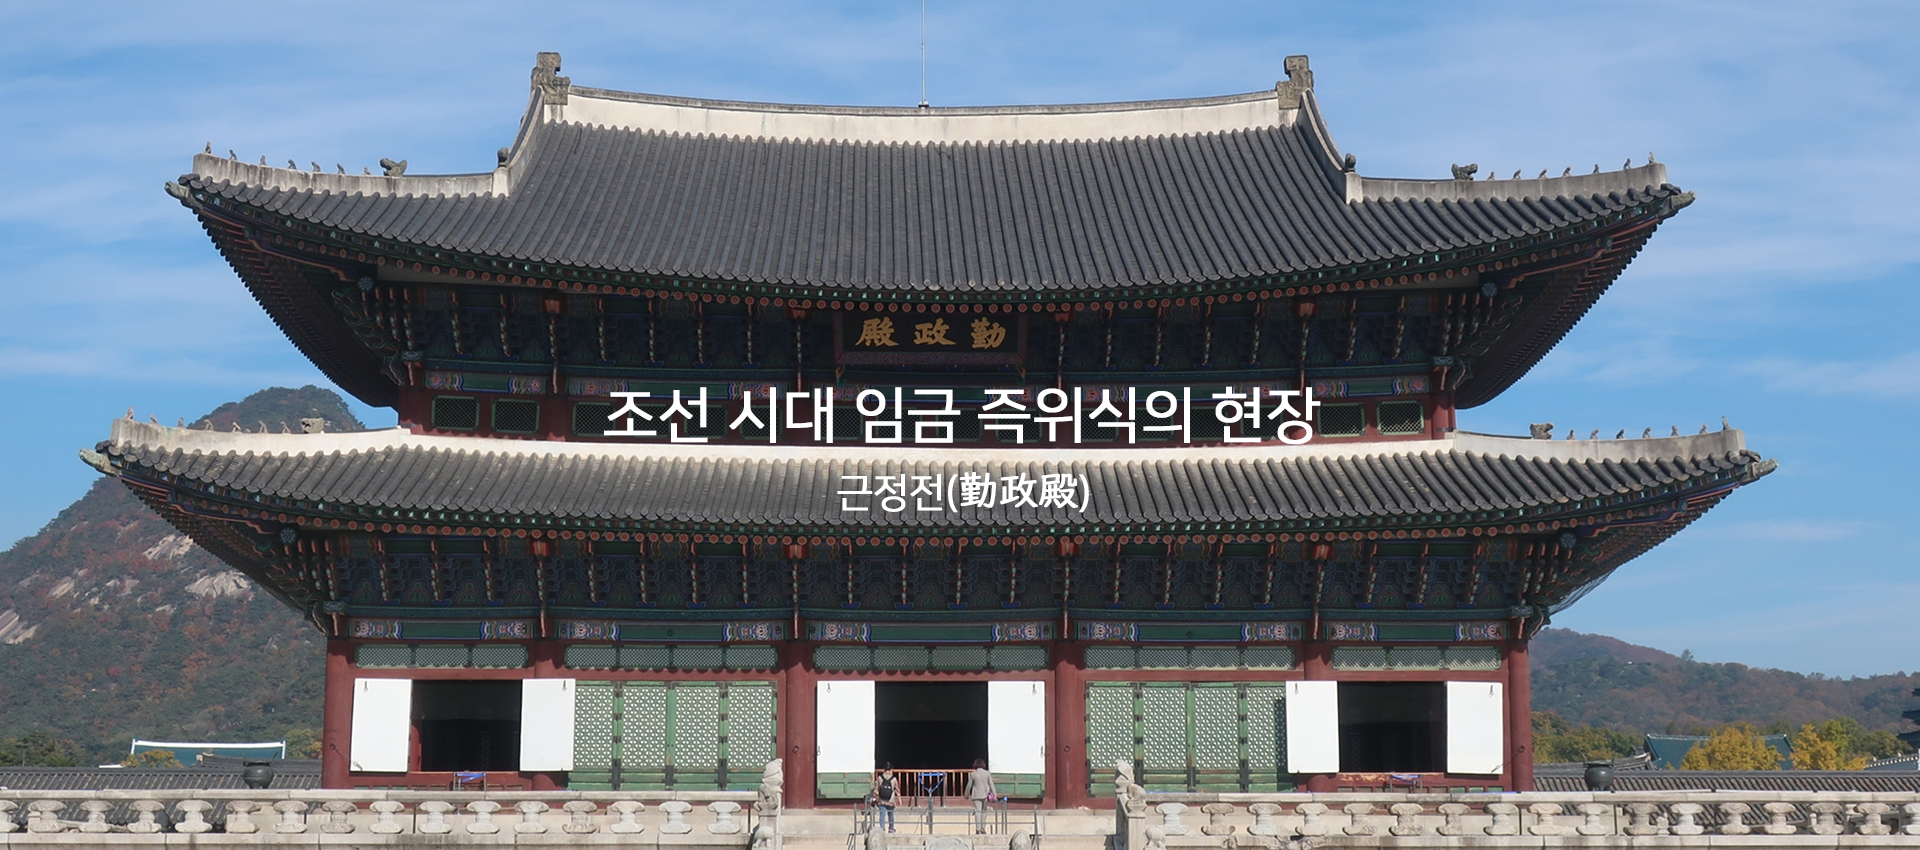
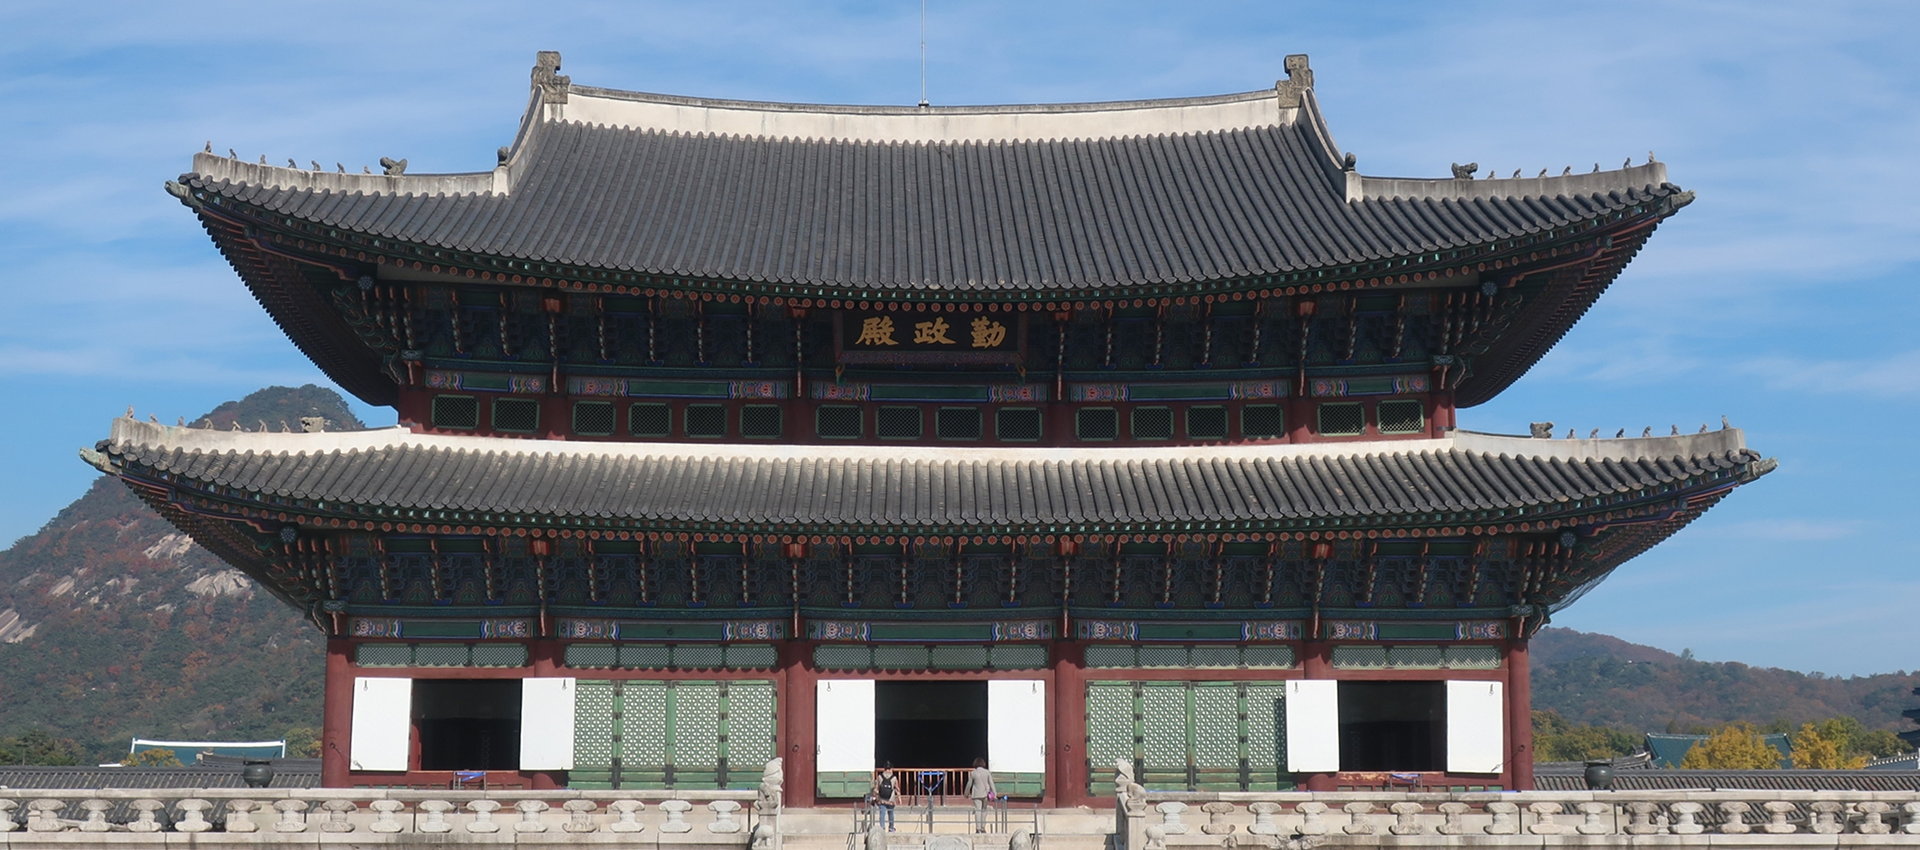
modified visual images and paragraphs of event section

diff --git a/src/screens/main.css b/src/screens/main.css
@@ -17,6 +17,21 @@
   z-index: 9999;
 }
 
+.bigvisual .swiper-slide div {
+  height: 850px;
+  color: #fff;
+  font-weight: 500;
+  font-size: 60px;
+  text-align: center;
+  padding-top: 350px;
+  line-height: 80px;
+}
+
+.bigvisual .swiper-slide div span {
+  font-size: 40px;
+  color: #fff;
+}
+
 .bigvisual .swiper-slide:first-child {
   background: url(/src/images/bic_visual_01.png) no-repeat center center;
 }
@@ -85,7 +100,7 @@
   text-align: start;
 }
 
-.event__content-box > p:nth-of-type(2) {
+.event__sentence {
   margin-top: 70px;
   font-size: 25px;
   line-height: 40px;
